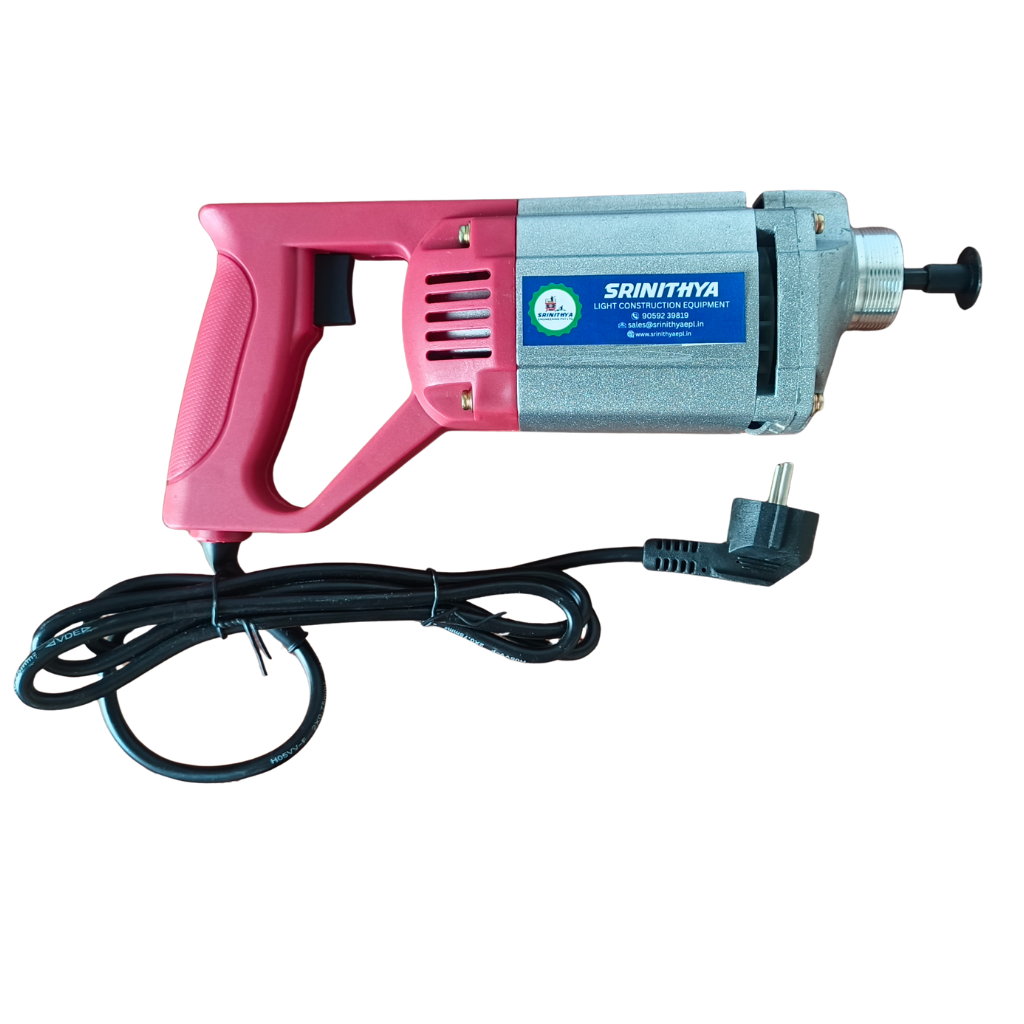
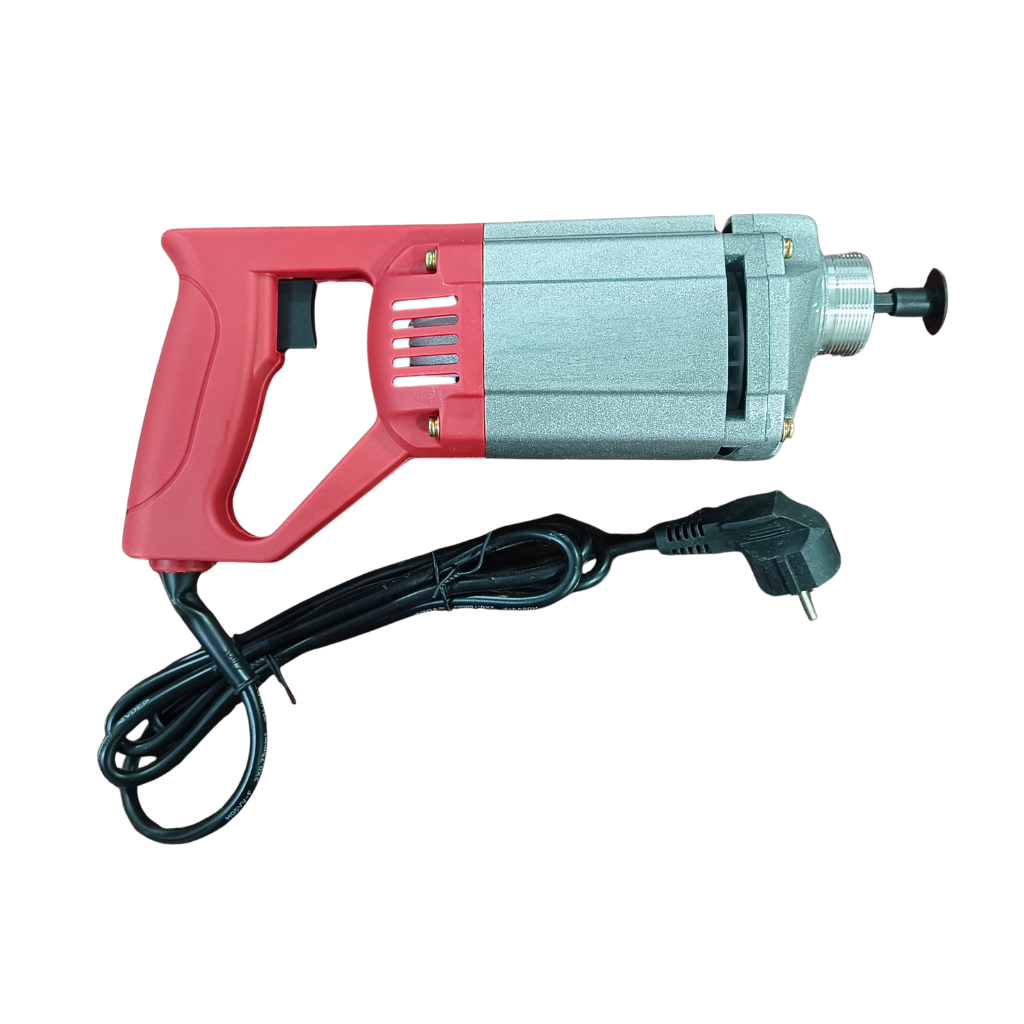
Revert "Added most of the images"
This reverts commit 202de0000fe306fbadd38dd76a0fff75b94fb432.

Changed region(s): [[0.0, 0.1875, 0.9688, 0.8438]]

diff --git a/js/data/product_data.js b/js/data/product_data.js
@@ -143,7 +143,7 @@ window.productData = {
         {
             model: "2 Inch Dewatering Pump",
             name: "2 Inch Dewatering Pump",
-            image: "./Assets/Product Images/sdwp2.png",
+            image: "./Assets/electrical_vibrator.png",
             description: "Versatile pump for general dewatering tasks.",
             specs: [
                 { icon: "fa-solid fa-arrow-up-from-water-pump", text: "Discharge Diameter: 2 Inch" },
@@ -156,7 +156,7 @@ window.productData = {
         {
             model: "3 Inch Dewatering Pump",
             name: "3 Inch Dewatering Pump",
-            image: "./Assets/Product Images/sdwp3.png",
+            image: "./Assets/electrical_vibrator.png",
             description: "Higher capacity pump for faster water removal.",
             specs: [
                 { icon: "fa-solid fa-arrow-up-from-water-pump", text: "Discharge Diameter: 3 Inch" },
@@ -229,7 +229,7 @@ window.productData = {
         {
             model: "SHFC 35",
             name: "High Frequency Converter SHFC 35",
-            image: "./Assets/Product Images/shfc35.png",
+            image: "./Assets/Others/logo.png",
             description: "Compact converter designed for efficiency.",
             specs: [
                 { icon: "fa-solid fa-plug", text: "Outlets: 2 Outlet" },
@@ -241,7 +241,7 @@ window.productData = {
         {
             model: "SHFC90P",
             name: "High Frequency Converter SHFC90P",
-            image: "./Assets/Product Images/shfc90.png",
+            image: "./Assets/Others/logo.png",
             description: "Heavy-duty converter for multiple connections.",
             specs: [
                 { icon: "fa-solid fa-plug", text: "Outlets: 4 Outlet" },
@@ -311,7 +311,7 @@ window.productData = {
             {
                 model: "SHFN 60 (12Mtr)",
                 name: "SHFN 60 - 12Mtr Hose",
-                image: "./Assets/Product Images/shfn60_12m.png",
+                image: "./Assets/electrical_vibrator.png",
                 description: "",
                 specs: [
                     { icon: "fa-solid fa-ruler-horizontal", text: "Diameter: 58mm" },
@@ -348,7 +348,7 @@ window.productData = {
             {
                 model: "40MM Needle 12Mtr",
                 name: "40MM Needle - 12Mtr Hose",
-                image: "./Assets/Product Images/shfn40_12m.png",
+                image: "./Assets/electrical_vibrator.png",
                 description: "",
                 specs: [
                     { icon: "fa-solid fa-ruler-horizontal", text: "Diameter: 40mm" },
@@ -455,21 +455,21 @@ window.productData = {
     'mechanical-poker-models': {
         handyNeedles: [
             { model: "Handy Needle 25mm (3M)", name: "25MM Needle (3Mtr)", image: "./Assets/electrical_vibrator.png", description: "Compact needle for handy vibrators.", actions: [{ type: 'cart', name: 'Handy Needle 25mm (3M)' }] },
-            { model: "Handy Needle 25mm (6M)", name: "25MM Needle (6Mtr)", image: "./Assets/Product Images/shp25_6m.png", description: "Extended reach needle for handy vibrators.", actions: [{ type: 'cart', name: 'Handy Needle 25mm (6M)' }] },
+            { model: "Handy Needle 25mm (6M)", name: "25MM Needle (6Mtr)", image: "./Assets/electrical_vibrator.png", description: "Extended reach needle for handy vibrators.", actions: [{ type: 'cart', name: 'Handy Needle 25mm (6M)' }] },
             { model: "Handy Needle 40mm (3M)", name: "40MM Needle (3Mtr)", image: "./Assets/electrical_vibrator.png", description: "Standard size needle for general use.", actions: [{ type: 'cart', name: 'Handy Needle 40mm (3M)' }] },
-            { model: "Handy Needle 40mm (6M)", name: "40MM Needle (6Mtr)", image: "./Assets/Product Images/shp40_6m.png", description: "Long hose needle for deep pours.", actions: [{ type: 'cart', name: 'Handy Needle 40mm (6M)' }] },
+            { model: "Handy Needle 40mm (6M)", name: "40MM Needle (6Mtr)", image: "./Assets/electrical_vibrator.png", description: "Long hose needle for deep pours.", actions: [{ type: 'cart', name: 'Handy Needle 40mm (6M)' }] },
             { model: "Handy Needle 60mm (3M)", name: "60MM Needle (3Mtr)", image: "./Assets/electrical_vibrator.png", description: "Large diameter for heavy consolidation.", actions: [{ type: 'cart', name: 'Handy Needle 60mm (3M)' }] },
-            { model: "Handy Needle 60mm (6M)", name: "60MM Needle (6Mtr)", image: "./Assets/Product Images/shp60_6m.png", description: "Maximum reach and power.", actions: [{ type: 'cart', name: 'Handy Needle 60mm (6M)' }] }
+            { model: "Handy Needle 60mm (6M)", name: "60MM Needle (6Mtr)", image: "./Assets/electrical_vibrator.png", description: "Maximum reach and power.", actions: [{ type: 'cart', name: 'Handy Needle 60mm (6M)' }] }
         ],
         handHeldNeedles: [
-            { model: "Hand-Held Needle 25mm", name: "25MM Needle", image: "./Assets/Product Images/shhn25.png", description: "Precision needle for high frequency motor.", actions: [{ type: 'cart', name: 'Hand-Held Needle 25mm' }] },
-            { model: "Hand-Held Needle 40mm", name: "40MM Needle", image: "./Assets/Product Images/shhn40.png", description: "Versatile needle for high frequency motor.", actions: [{ type: 'cart', name: 'Hand-Held Needle 40mm' }] },
-            { model: "Hand-Held Needle 60mm", name: "60MM Needle", image: "./Assets/Product Images/shhn60.png", description: "Heavy duty needle for high frequency motor.", actions: [{ type: 'cart', name: 'Hand-Held Needle 60mm' }] }
+            { model: "Hand-Held Needle 25mm", name: "25MM Needle", image: "./Assets/electrical_vibrator.png", description: "Precision needle for high frequency motor.", actions: [{ type: 'cart', name: 'Hand-Held Needle 25mm' }] },
+            { model: "Hand-Held Needle 40mm", name: "40MM Needle", image: "./Assets/electrical_vibrator.png", description: "Versatile needle for high frequency motor.", actions: [{ type: 'cart', name: 'Hand-Held Needle 40mm' }] },
+            { model: "Hand-Held Needle 60mm", name: "60MM Needle", image: "./Assets/electrical_vibrator.png", description: "Heavy duty needle for high frequency motor.", actions: [{ type: 'cart', name: 'Hand-Held Needle 60mm' }] }
         ],
         mechanicalNeedles: [
-            { model: "Mechanical Needle 25mm", name: "25MM Needles", image: "./Assets/Product Images/smp25.png", description: "Robust mechanical needle for standard vibrators.", actions: [{ type: 'cart', name: 'Mechanical Needle 25mm' }] },
-            { model: "Mechanical Needle 40mm", name: "40MM Needles", image: "./Assets/Product Images/smp40.png", description: "Standard mechanical needle for efficient compaction.", actions: [{ type: 'cart', name: 'Mechanical Needle 40mm' }] },
-            { model: "Mechanical Needle 60mm", name: "60MM Needles", image: "./Assets/Product Images/smp60.png", description: "High capacity mechanical needle for large jobs.", actions: [{ type: 'cart', name: 'Mechanical Needle 60mm' }] }
+            { model: "Mechanical Needle 25mm", name: "25MM Needles", image: "./Assets/electrical_vibrator.png", description: "Robust mechanical needle for standard vibrators.", actions: [{ type: 'cart', name: 'Mechanical Needle 25mm' }] },
+            { model: "Mechanical Needle 40mm", name: "40MM Needles", image: "./Assets/electrical_vibrator.png", description: "Standard mechanical needle for efficient compaction.", actions: [{ type: 'cart', name: 'Mechanical Needle 40mm' }] },
+            { model: "Mechanical Needle 60mm", name: "60MM Needles", image: "./Assets/electrical_vibrator.png", description: "High capacity mechanical needle for large jobs.", actions: [{ type: 'cart', name: 'Mechanical Needle 60mm' }] }
         ]
     },
     'mini-lift-models': [

diff --git a/js/components/product_cards.js b/js/components/product_cards.js
@@ -125,24 +125,24 @@ const lightEquipment = [
         },
         {
             title: "Dewatering Pumps",
-            image: ["./Assets/Product Images/sdwp2.png", "./Assets/Product Images/sdwp3.png"],
-            imageWebp: ["./Assets/Product Images/sdwp2.webp", "./Assets/Product Images/sdwp3.webp"],
+            image: "./Assets/Product Images/sdw.png",
+            imageWebp: "./Assets/Product Images/sdw.webp",
             description: "Submersible flexible shaft pumps for efficient water removal.",
             features: ["2 inch & 3 inch pumps", "Petrol/Diesel/Electric", "High Flow Rates"],
             link: "Product_details/dewatering_pump.html"
         },
         {
             title: "High Frequency Pokers",
-            image: ["./Assets/Product Images/shfn60_12m.png", "./Assets/Product Images/shfn40_12m.png"],
-            imageWebp: ["./Assets/Product Images/shfn60_12m.webp", "./Assets/Product Images/shfn40_12m.webp"],
+            image: "./Assets/Product Images/60hf.png",
+            imageWebp: "./Assets/Product Images/60hf.webp",
             description: "Internal concrete vibration needles for superior consolidation.",
             features: ["40mm & 60mm Diameters", "Hose lengths up to 12 meters", "Multiple Power Options"],
             link: "Product_details/high_frequency_poker_models.html"
         },
         {
             title: "High Frequency Converters",
-            image: ["./Assets/Product Images/shfc35.png", "./Assets/Product Images/shfc90.png"],
-            imageWebp: ["./Assets/Product Images/shfc35.webp", "./Assets/Product Images/shfc90.webp"],
+            image: "./Assets/Product Images/hfc.png",
+            imageWebp: "./Assets/Product Images/hfc.webp",
             description: "Reliable power conversion for high-frequency concrete vibrators.",
             features: ["2 & 4 Outlet Models", "Converts 415V to 42V/200Hz", "Robust Design"],
             link: "Product_details/high_frequency_converter_models.html"
@@ -157,8 +157,8 @@ const lightEquipment = [
         },
         {
             title: "Mechanical Pokers",
-            image: ["./Assets/Product Images/smp.png", "./Assets/Product Images/smp60.png", "./Assets/Product Images/shhn60.png", "./Assets/Product Images/shp60_6m.png"],
-            imageWebp: ["./Assets/Product Images/smp.webp"],
+            image: "./Assets/Product Images/smp.png",
+            imageWebp: "./Assets/Product Images/smp.webp",
             description: "High-quality vibration needles for various applications.",
             features: ["Handy & Hand-Held Needles", "Mechanical Needles", "Durable Construction"],
             link: "Product_details/mechanical_poker_models.html"

diff --git a/js/components/navbar.js b/js/components/navbar.js
@@ -60,7 +60,7 @@ const rootPath = getRootPath(),
                     <img src="${rootPath}Assets/Others/logo.png" alt="Srinithya Engineering Logo" class="h-7 md:h-16 w-auto mr-1 relative z-20 transition-all duration-300 ease-in-out" width="64" height="64" id="nav-logo">
                     <div class="relative overflow-hidden pl-0 pr-1 py-1 flex-grow text-center transition-all duration-300 ease-in-out min-w-0" id="name-strip">
                         <!-- Updated to font-black (weight 900) for maximum thickness -->
-                        <span class="text-[clamp(8px,2.7vw,30px)] text-primary relative z-10 transition-all duration-300 ease-in-out whitespace-nowrap drop-shadow-sm block mb-0 md:mb-2 leading-none w-full pr-1" id="company-name">SRINITHYA ENGINEERING PRIVATE LIMITED</span>
+                        <span class="text-[clamp(8px,2.9vw,80px)] text-primary relative z-10 transition-all duration-300 ease-in-out whitespace-nowrap drop-shadow-sm block mb-0 md:mb-1 leading-none w-full pr-1" id="company-name">SRINITHYA ENGINEERING PRIVATE LIMITED</span>
                         
                         <!-- Construction Animations Layer -->
                         <div class="hidden md:block absolute inset-0 pointer-events-none z-0 overflow-hidden transition-opacity duration-300 ease-in-out" id="animation-layer">
